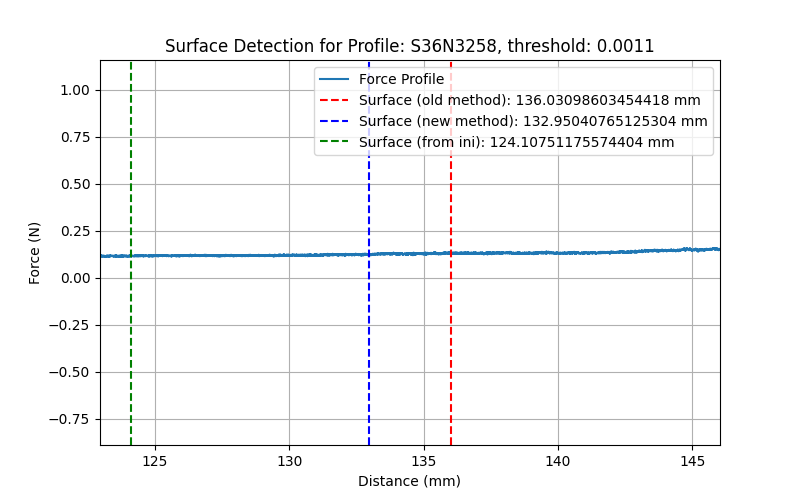
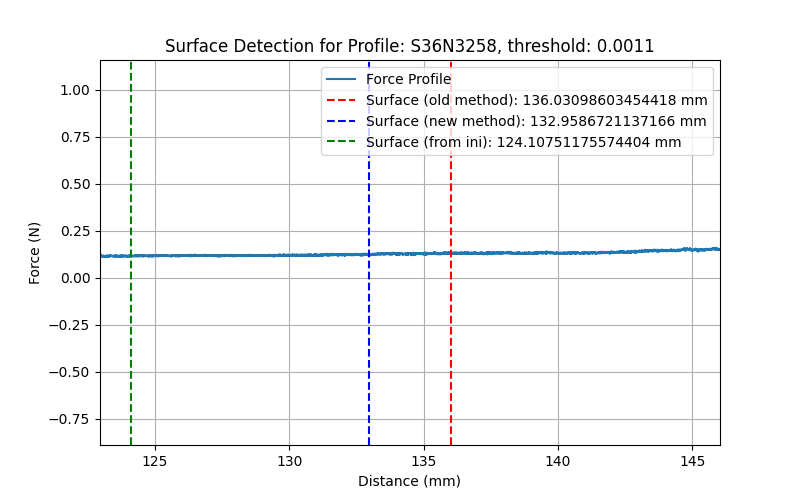
faster runtime and better comments

Changed region(s): [[0.4375, 0.15, 0.875, 0.3], [0.375, 0.24, 0.4062, 0.3], [0.375, 0.15, 0.4062, 0.21]]

diff --git a/code_SMP/detect_surface.py b/code_SMP/detect_surface.py
@@ -5,6 +5,8 @@ from snowmicropyn import Profile
 from snowmicropyn.tools import smooth
 #from code_SMP.readSMP import load_all_smp_profiles
 import numpy as np
+import time
+import pandas as pd
 
 def moving_linear_regression(x, y, window_mm=1.0):
     # calculate window size 
@@ -39,21 +41,37 @@ def moving_linear_regression(x, y, window_mm=1.0):
 
 
 def detect_surface(df, name):
+    """
+    Detects the snow surface in an SMP profile by identifying the first 
+    significant gradient increase in the force signal.
+    1. Computes gradient of force using a moving linear regression and smoothing
+    2. Calculates a threshold based on the standard deviation of the gradient
+    3. Identifies the first point where the gradient exceeds the threshold
+       With checking the next 1mm for a stable surface value
+
+    Parameters:
+        df (pd.DataFrame): Profile with 'distance' and 'force' columns
+        name (str): Profile name for debugging
+
+    Returns:
+        surface (float): Surface position
+        grad (np.ndarray): Smoothed force gradient
+        threshold (float): Gradient threshold used for detection
+    """
     distance = df["distance"]
     force = df["force"]
+    window_len = 242 # thats 1mm/resolution of SMP 
 
-    # gradient with linear regression over 1mm window
+
+    # 1. Compute gradient with moving linear regression over 1mm window
     grad = moving_linear_regression(distance, force, window_mm=1.0)
 
-    #smoothing with hanning, same as smooth() of snowmicropyn
-    grad = smooth(grad, 242)
-    window_len = 242 # thats 1mm/resolution of SMP 
-    #s = np.r_[grad[window_len - 1:0:-1], grad, grad[-1:-window_len:-1]]
-    #w = eval('np.' + 'hanning' + '(window_len)')
-    #grad = np.convolve(w / w.sum(), s, mode='valid')
+    # smoothing with hanning
+    grad = smooth(grad, window_len)
+    grad = grad[:len(distance)]  #cut to length of distance
 
 
-    # Threshold 
+    # 2. Calculate threshold based on standard deviation of the gradient
     # method: take STD of the gradient from the air measurement without disturbances, form threshold out of it
     # assumption I: the air measurement can be found in the first 10cm of the profile
     # assumption II: to get a stable std a a value range of 10mm is used for the calculation -> window
@@ -66,38 +84,36 @@ def detect_surface(df, name):
     air_std = None
     air_mean = None
 
-    for start_idx in range(0, len(grad) - window):
-        if distance[start_idx] > (distance[0] + max_distance_mm):
-            break
-        window_grad = grad[start_idx : start_idx + window]
-        s = np.std(window_grad)
-        m = np.mean(window_grad)
+    grad_air = grad[distance <= (distance[0] + max_distance_mm)]
+    for i in range(len(grad_air) - window + 1):
+        window_grad = grad_air[i : i + window]
+        s = window_grad.std()
         if s < min_std:
             min_std = s
-            air_std = s # use smallest std of gradient 
-            air_mean = m
+            air_std = s
+            air_mean = window_grad.mean()
 
     threshold = 5 * air_std #with air_mean + 5* air_std a very small bit worse - snowmicropyn method
 
 
-    surface = None 
-
-    # Find first significant gradient rise above threshold
-    for i in range(1000, len(grad)): #in snowmicropyn 100 but makes higher error here
+    # 3. Find first significant gradient rise above threshold = surface
+    surface = None
+    for i in range(1000, len(grad)): # Start at index 1000 to avoid noise at the very top (in snowmicropyn:100)
         if grad[i] > threshold:
-            check_window = grad[i+1 : i+1+window_len] # calculate gradient for 1mm after possible surface value
-
-            if np.sum(check_window < threshold) / len(check_window) >= threshold: #make a different threshold here
+            # Check if next 1mm after the surface value is not air again
+            check_window = grad[i+1 : i+1+window_len]
+            if np.sum(check_window < threshold) / len(check_window) >= threshold:
                  continue
             surface = distance[i]
             break
 
-    # fallback when no surface can be found
+    # Fallback if no surface can be found
     if surface is None:
         print(f"[{name}] No valid surface detected using new method.")
         surface = distance[0] 
 
     return surface, grad, threshold
+
 
 def detect_surface_snowmicropyn(file):
     #compare with snowmicropyn package detection method
